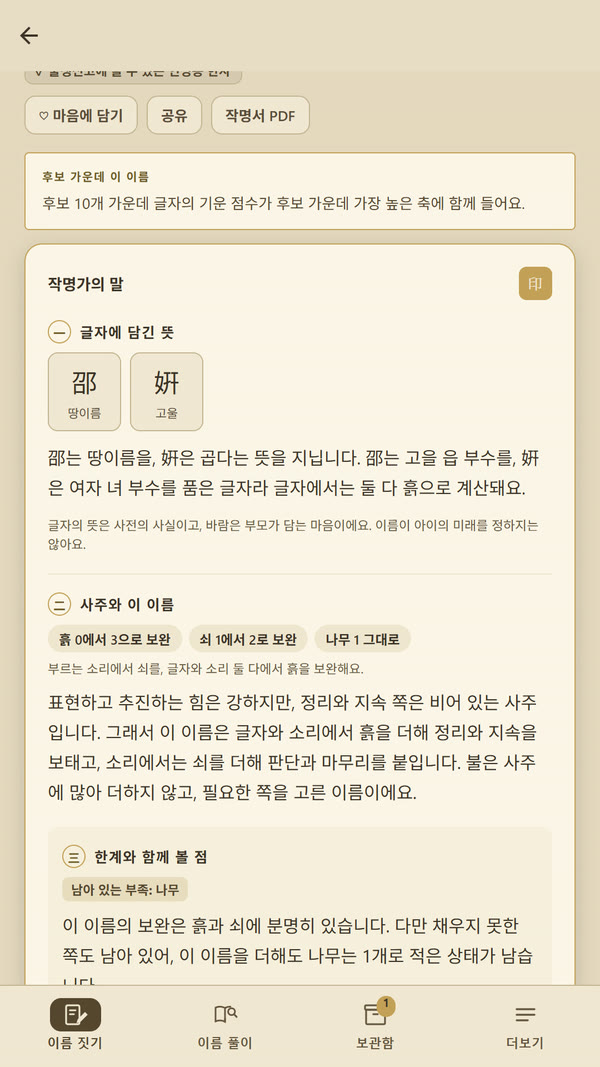
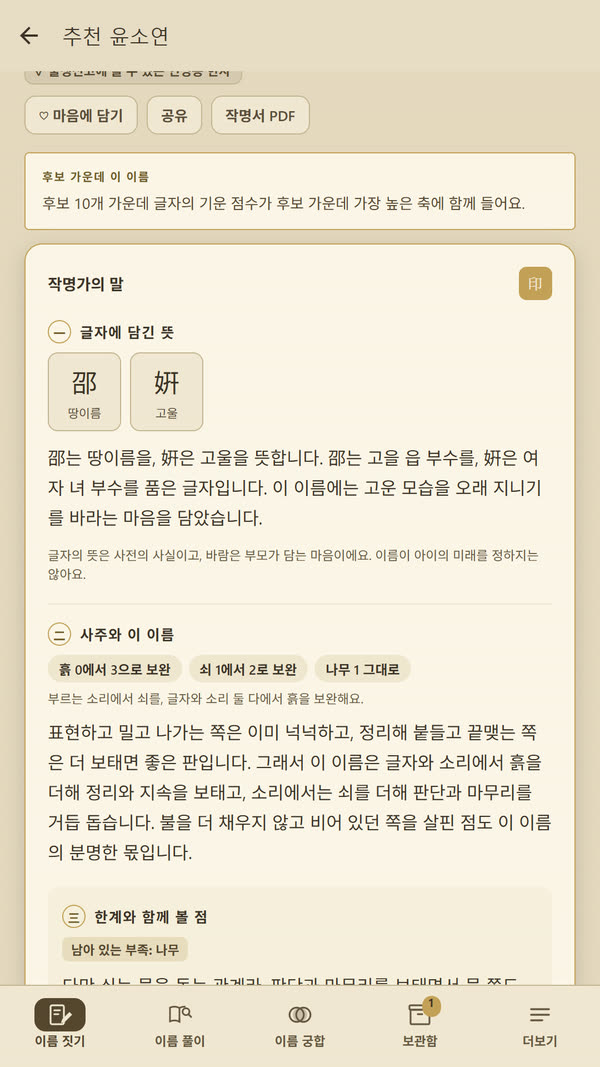
소곤작명 출시 반영: 이름 궁합 섹션, 새 스크린샷, 다운로드 경로
소곤작명이 2026-09-15 프로덕션으로 나갔는데 사이트는 아직 준비 중이라고
말하고 있었다. 제목에 "(준비 중)"이 박혀 있었고, 다운로드 버튼을 누르면
"아직 이름을 다듬는 중"이라는 팝업이 떴다.

- sogonjakmyeong.html: 준비 중 표기 제거, 이름 궁합 섹션 신설,
  가격 안내에 궁합서 3,900원 추가 ("작명서 하나뿐"이 더는 사실이 아니다)
- go-jakmyeong.html 신설: go.html 과 같은 UTM 규칙, 앱만 다르다.
  내비/히어로/푸터/메인카드/블로그 다섯 곳의 c= 값을 달리해 유입 경로를 구분한다
- 스크린샷 6장을 실서버 캡처로 교체. 탭이 4개이던 8월 판이라 낡았다
- index.html: 작명 카드에서 준비 중 배지 제거, 스토어 버튼 추가,
  준비 중 팝업 목록에서 작명 제외
- about.html, blog/jakmyeong.html: 출시 전 문구 정정

Changed region(s): [[0.06, 0.4021, 0.93, 0.9897], [0.84, 0.9278, 0.93, 0.9897], [0.12, 0.0309, 0.27, 0.0619]]

diff --git a/sogonjakmyeong.html b/sogonjakmyeong.html
@@ -4,10 +4,10 @@
 <meta charset="utf-8">
 <meta name="viewport" content="width=device-width, initial-scale=1">
 <link rel="icon" type="image/png" href="/assets/favicon.png">
-<title>소곤작명 - 왜 그 이름인지 근거까지 적어 드리는 작명 앱 (준비 중)</title>
-<meta name="description" content="사주 여덟 글자를 읽고, 왜 그 이름인지 근거까지 적어 드리는 작명 앱. 아기 이름과 예명을 짓고, 지금 이름은 무료로 풀이합니다. 출시 준비 중.">
+<title>소곤작명 - 사주로 이름을 짓고 근거까지 적어 드리는 작명 앱</title>
+<meta name="description" content="사주 여덟 글자를 읽고, 왜 그 이름인지 근거까지 적어 드리는 작명 앱. 아기 이름과 예명을 짓고, 이름 풀이는 무료, 이름 궁합 점수도 무료입니다.">
 <meta property="og:title" content="소곤작명 - 왜 그 이름인지, 근거까지 적어 드려요">
-<meta property="og:description" content="사주 여덟 글자를 읽고 근거와 함께 이름을 추천하는 작명 앱. 이름 풀이는 무료. 출시 준비 중입니다.">
+<meta property="og:description" content="사주 여덟 글자를 읽고 근거와 함께 이름을 추천하는 작명 앱. 이름 풀이는 무료, 이름 궁합 점수도 무료입니다.">
 <meta property="og:image" content="https://sogonstudio.com/assets/jakmyeong-grandfather.jpg">
 <meta property="og:type" content="website">
 <meta property="og:url" content="https://sogonstudio.com/sogonjakmyeong.html">
@@ -91,6 +91,7 @@
       <a href="sogonsaju.html">소곤사주</a>
       <a href="blog/index.html">읽을거리</a>
       <a href="about.html">회사 소개</a>
+      <a class="btn btn-line" style="padding:9px 20px;font-size:14px" href="go-jakmyeong.html?c=jak-nav">앱 다운로드</a>
     </nav>
   </div>
 </header>
@@ -98,11 +99,11 @@
   <div class="hero">
     <div class="wrap">
       <div>
-        <span class="badge-soon">준비 중</span>
         <p class="kicker">소곤작명</p>
         <h1>왜 그 이름인지,<br><em>근거까지</em> 적어 드려요</h1>
         <p class="lede">사주 여덟 글자를 읽고, 왜 그 이름인지 근거까지 적어 드리는 작명 앱이에요. 이름을 지어 주는 앱은 많지만, 왜 그 이름인지 말해 주는 앱은 드뭅니다.</p>
         <div style="display:flex;gap:12px;flex-wrap:wrap">
+          <a class="btn btn-gold" href="go-jakmyeong.html?c=jak-hero">Google Play에서 받기</a>
           <a class="btn btn-line" href="blog/jakmyeong.html">이름 이야기 읽어보기</a>
         </div>
       </div>
@@ -120,12 +121,13 @@
             <li><b>아기 이름.</b> 태어난 날과 시간으로 짓습니다. 아직 태어나지 않았어도 괜찮아요. 출산 예정일이나 제왕절개 후보 시간으로도 지을 수 있어요.</li>
             <li><b>예명과 활동명.</b> 성을 빼고 활동명만으로도 지을 수 있습니다. 활동 분야와 원하는 느낌을 고르면 그 결에 맞는 후보를 찾아 드려요.</li>
             <li><b>이름 풀이.</b><span class="free-chip">무료</span> 이미 있는 이름의 기운과 소리, 획수, 음양을 무료로 봅니다. 개명을 생각 중이라면 지금 이름 진단부터 시작하고, 개명 절차 안내로 이어져요.</li>
+            <li><b>이름 궁합.</b><span class="free-chip">무료</span> 두 사람의 이름을 나란히 놓고 서로에게 무엇을 하는지 봅니다. 점수와 한 줄 결론은 무료예요.</li>
             <li><b>한자 이름과 순한글 이름</b> 모두 지원하고, 돌림자와 출생 순서도 반영할 수 있어요.</li>
           </ul>
         </div>
         <div class="media">
           <img class="shot" src="assets/jak-screen-home.jpg" alt="소곤작명 홈 화면, 아기 이름과 예명 두 갈래" loading="lazy">
-          <p class="caption">실제 앱 화면이에요. 출시 때 조금 달라질 수 있어요.</p>
+          <p class="caption">실제 앱 화면이에요.</p>
         </div>
       </div>
     </div>
@@ -146,7 +148,7 @@
             <li>여덟 글자의 <b>오행 분포</b>를 세어 보여드려요. 여기까지 무료.</li>
             <li>지금 쓰는 이름의 <b>기운과 소리, 획수, 음양</b>을 풀이해요. 이것도 무료.</li>
             <li>아이 이름을 이미 정하신 분도, 자기 이름이 궁금한 분도 쓰실 수 있어요.</li>
-            <li>유료는 <b>작명서 하나</b>뿐이에요. 아기 이름과 이름 풀이의 작명서가 <b>18,900원</b>, 예명과 활동명이 <b>12,900원</b>. 구독도, 광고도 없습니다.</li>
+            <li>유료는 <b>작명서</b>와 <b>궁합서</b>뿐이에요. 아기 이름과 이름 풀이의 작명서가 <b>18,900원</b>, 예명과 활동명이 <b>12,900원</b>, 이름 궁합서가 <b>3,900원</b>. 구독도, 광고도 없습니다.</li>
           </ul>
         </div>
       </div>
@@ -217,12 +219,33 @@
     </div>
   </section>
 
+  <section class="band">
+    <div class="wrap">
+      <div class="row">
+        <div class="media">
+          <img class="shot" src="assets/jak-screen-compat.jpg" alt="이름 궁합 결과 화면, 점수와 한 줄 결론과 작명가의 말" loading="lazy">
+          <p class="caption">점수와 한 줄 결론은 무료입니다.</p>
+        </div>
+        <div>
+          <p class="kicker">이름 궁합</p>
+          <h2>두 이름이 서로에게<br><em>무엇을 하는지</em></h2>
+          <p class="sub">두 사람의 이름을 나란히 놓고 봅니다. 서로에게 보태는 기운을 보고, 이어 부를 때 소리가 걸리는지 보고, 두 글자가 만나는 자리를 봅니다. 함께 있을 때 어떤 기운이 비는지도 짚어 드려요.</p>
+          <ul>
+            <li><b>점수와 한 줄 결론은 무료.</b><span class="free-chip">무료</span> 횟수 제한이 없어요. 근거 넷의 해석과 작명가의 말은 궁합서를 받으시면 열려요.</li>
+            <li><b>가족이 함께 부르는 자리를 생각했어요.</b> 아이 이름을 고를 때 부모의 이름과 나란히 놓아 보는 식이에요.</li>
+            <li><b>관계가 아니라 이름의 계산이에요.</b> 두 사람이 잘 맞는지를 재지 않습니다. 두 이름이 서로에게 무엇을 하는지만 보여 드려요.</li>
+          </ul>
+        </div>
+      </div>
+    </div>
+  </section>
+
   <section class="final">
     <div class="wrap">
-      <h2>출시 소식은 이곳에서 전해 드릴게요</h2>
-      <p class="sub">버튼은 미리 만들어 뒀어요. 출시되면 바로 열립니다.</p>
+      <h2>이름을 짓고, 왜 그 이름인지 적어 드릴게요</h2>
+      <p class="sub">사주 분석과 이름 추천 열 개와 이름 풀이는 무료예요. 이름 궁합 점수도 무료입니다.</p>
       <div class="cta-row">
-        <a class="btn btn-gold" href="#" id="tryApp">소곤작명 써보기</a>
+        <a class="btn btn-gold" href="go-jakmyeong.html?c=jak-footer">Google Play에서 받기</a>
         <a class="btn btn-line" href="iljoo.html">무료 일주 계산기</a>
       </div>
     </div>
@@ -240,22 +263,6 @@
     </div>
   </div>
 </footer>
-<div class="modal-bg" id="modalBg">
-  <div class="modal">
-    <span class="m-badge">준비 중</span>
-    <h3>소곤작명 써보기</h3>
-    <p>소곤작명은 아직 이름을 다듬는 중이에요. 출시되면 이 버튼으로 바로 만나실 수 있어요. 기다리는 동안 소곤사주에서 내 사주를 먼저 알아보셔도 좋아요.</p>
-    <div class="m-row">
-      <a class="btn btn-gold" href="go.html?c=jakmyeong-modal">소곤사주 먼저 써보기</a>
-      <button class="btn btn-line" id="modalClose">닫기</button>
-    </div>
-  </div>
-</div>
-<script>
-  const bg = document.getElementById('modalBg');
-  document.getElementById('tryApp').onclick = (e) => { e.preventDefault(); bg.classList.add('on'); };
-  document.getElementById('modalClose').onclick = () => bg.classList.remove('on');
-  bg.onclick = (e) => { if (e.target === bg) bg.classList.remove('on'); };
-</script>
+
 </body>
 </html>

diff --git a/index.html b/index.html
@@ -298,13 +298,13 @@
         </div>
         <div class="app-card">
           <div class="thumb">
-            <span class="badge badge-soon">준비 중</span>
             <img src="assets/jakmyeong-grandfather.jpg" alt="소곤작명의 작명가" loading="lazy">
           </div>
           <div class="body">
-            <h3>소곤작명<small>이름 짓기, 이름 풀이</small></h3>
-            <p>사주 여덟 글자를 읽고, 왜 그 이름인지 근거까지 적어 드리는 작명 앱. 아기 이름과 예명을 짓고, 지금 이름 풀이는 무료로 볼 수 있어요.</p>
+            <h3>소곤작명<small>이름 짓기, 이름 풀이, 이름 궁합</small></h3>
+            <p>사주 여덟 글자를 읽고, 왜 그 이름인지 근거까지 적어 드리는 작명 앱. 아기 이름과 예명을 짓고, 지금 이름 풀이는 무료. 두 이름을 나란히 보는 이름 궁합도 점수까지는 무료예요.</p>
             <div class="actions">
+              <a class="btn btn-gold" href="go-jakmyeong.html?c=hub-jakmyeong">Google Play</a>
               <a class="btn btn-line" href="sogonjakmyeong.html">자세히 보기</a>
             </div>
           </div>
@@ -515,7 +515,7 @@
           </div>
         </div>
       </div>
-      <p class="free-note">소곤사주는 무료 질문 2회, 회원가입 없음, 구독 없음. 나머지 시리즈는 조용히 준비하고 있어요.</p>
+      <p class="free-note">소곤사주는 무료 질문 2회, 소곤작명은 이름 풀이와 궁합 점수가 무료. 둘 다 회원가입 없음, 구독 없음. 소곤신점과 소곤해몽은 조용히 준비하고 있어요.</p>
     </div>
   </section>
 </main>
@@ -551,7 +551,6 @@
   // 미출시 앱 스토어 버튼 → 준비 중 팝업
   const MODAL_MSG = {
     'saju-ios': ['소곤사주 App Store', '소곤사주의 App Store 버전을 준비하고 있어요. 조금만 기다려 주세요. 지금은 Google Play에서 바로 만날 수 있습니다.', 'Google Play에서 받기', 'go.html?c=hub-saju-ios-modal'],
-    'jakmyeong': ['소곤작명 써보기', '소곤작명은 아직 이름을 다듬는 중이에요. 출시되면 이 자리에서 바로 만나실 수 있어요. 기다리는 동안 소곤사주를 먼저 만나보셔도 좋아요.', '소곤사주 먼저 써보기', 'go.html?c=hub-jakmyeong-modal'],
     'sinjeom': ['소곤신점 써보기', '신당은 아직 문을 여는 중이에요. 출시되면 이 자리에서 바로 들어오실 수 있어요. 기다리는 동안 소곤사주를 먼저 만나보셔도 좋아요.', '소곤사주 먼저 써보기', 'go.html?c=hub-sinjeom-modal'],
     'haemong': ['소곤해몽 써보기', '소곤해몽은 아직 꿈을 고르는 중이에요. 출시되면 이 자리에서 바로 만나실 수 있어요. 기다리는 동안 소곤사주를 먼저 만나보셔도 좋아요.', '소곤사주 먼저 써보기', 'go.html?c=hub-haemong-modal'],
   };

diff --git a/blog/jakmyeong.html b/blog/jakmyeong.html
@@ -27,8 +27,8 @@
     <p>획수로 길흉을 따지는 방식도 있지만, 이건 유파마다 해석이 갈리는 부분이라 참고 정도로 보는 게 균형 잡힌 태도예요. 중심은 어디까지나 내 사주에 무엇이 부족하고, 이름이 무엇을 보태줄 수 있느냐입니다.</p>
     <p>이미 지어진 이름이 걱정되는 분들도 있을 거예요. 이름풀이에서 기억할 것 하나만 말씀드리면, 이름풀이는 진단이지 판결이 아닙니다. 내 이름이 사주와 어떻게 어울리는지 알아보는 것이지, 나쁜 이름이라는 낙인을 받는 자리가 아니에요. 궁금해서 보는 것까지는 좋지만 불안해질 필요는 없습니다.</p>
     <div class="cta-box">
-      <p>소곤 시리즈의 두 번째 앱, 소곤작명을 준비하고 있습니다. 아기 이름과 예명을 짓고 지금 이름은 무료로 풀이하는, 왜 이 이름인지 근거까지 적어 드리는 작명 앱이에요. 출시 소식은 이곳에서 전해 드릴게요. 그때까지는 내 사주부터 알아보셔도 좋습니다.</p>
-      <a class="btn-gold" href="../go.html?c=blog06">소곤사주에서 내 사주 보기</a>
+      <p>소곤 시리즈의 두 번째 앱, 소곤작명이 나왔습니다. 아기 이름과 예명을 짓고 지금 이름은 무료로 풀이하는, 왜 이 이름인지 근거까지 적어 드리는 작명 앱이에요. 사주 분석과 이름 추천 열 개와 이름 풀이는 무료입니다.</p>
+      <a class="btn-gold" href="../go-jakmyeong.html?c=blog06">소곤작명 받아보기</a>
     </div>
     <a class="back" href="index.html">← 다른 글 보기</a>
   </article>

diff --git a/go-jakmyeong.html b/go-jakmyeong.html
@@ -1,0 +1,24 @@
+<!doctype html>
+<html lang="ko">
+<head>
+<meta charset="utf-8">
+<title>소곤작명으로 이동 중</title>
+<meta name="robots" content="noindex">
+<script>
+  // 링크 허브: go-jakmyeong.html?c=<채널또는게시물ID> → Play 스토어 (UTM 귀속)
+  // go.html 과 같은 규칙. 앱만 다르다.
+  var params = new URLSearchParams(location.search);
+  var content = (params.get('c') || 'direct').replace(/[^\w-]/g, '').slice(0, 40);
+  var source = (params.get('s') || 'brand_web').replace(/[^\w-]/g, '').slice(0, 30);
+  var target = 'https://play.google.com/store/apps/details?id=com.sogon.jakmyeong'
+    + '&utm_source=' + source
+    + '&utm_medium=web'
+    + '&utm_campaign=always_on'
+    + '&utm_content=' + content;
+  location.replace(target);
+</script>
+</head>
+<body style="font-family:sans-serif;background:#1B140C;color:#F3E9D5;display:flex;align-items:center;justify-content:center;height:100vh;margin:0">
+  <p>소곤작명 다운로드 페이지로 이동 중입니다…</p>
+</body>
+</html>

diff --git a/about.html b/about.html
@@ -77,7 +77,7 @@
 
     <div class="card">
       <h3>소곤작명</h3>
-      <p>사주 여덟 글자를 읽고 왜 그 이름인지 근거까지 적어 드리는 작명 앱입니다. 아기 이름과 예명을 짓고, 지금 이름 풀이는 무료로 제공합니다. 개발 중입니다.</p>
+      <p>사주 여덟 글자를 읽고 왜 그 이름인지 근거까지 적어 드리는 작명 앱입니다. 아기 이름과 예명을 짓고, 지금 이름 풀이는 무료로 제공합니다. 두 이름을 나란히 보는 이름 궁합도 점수까지는 무료입니다. 2026년 9월 Google Play에 출시했습니다.</p>
     </div>
 
     <div class="card">
